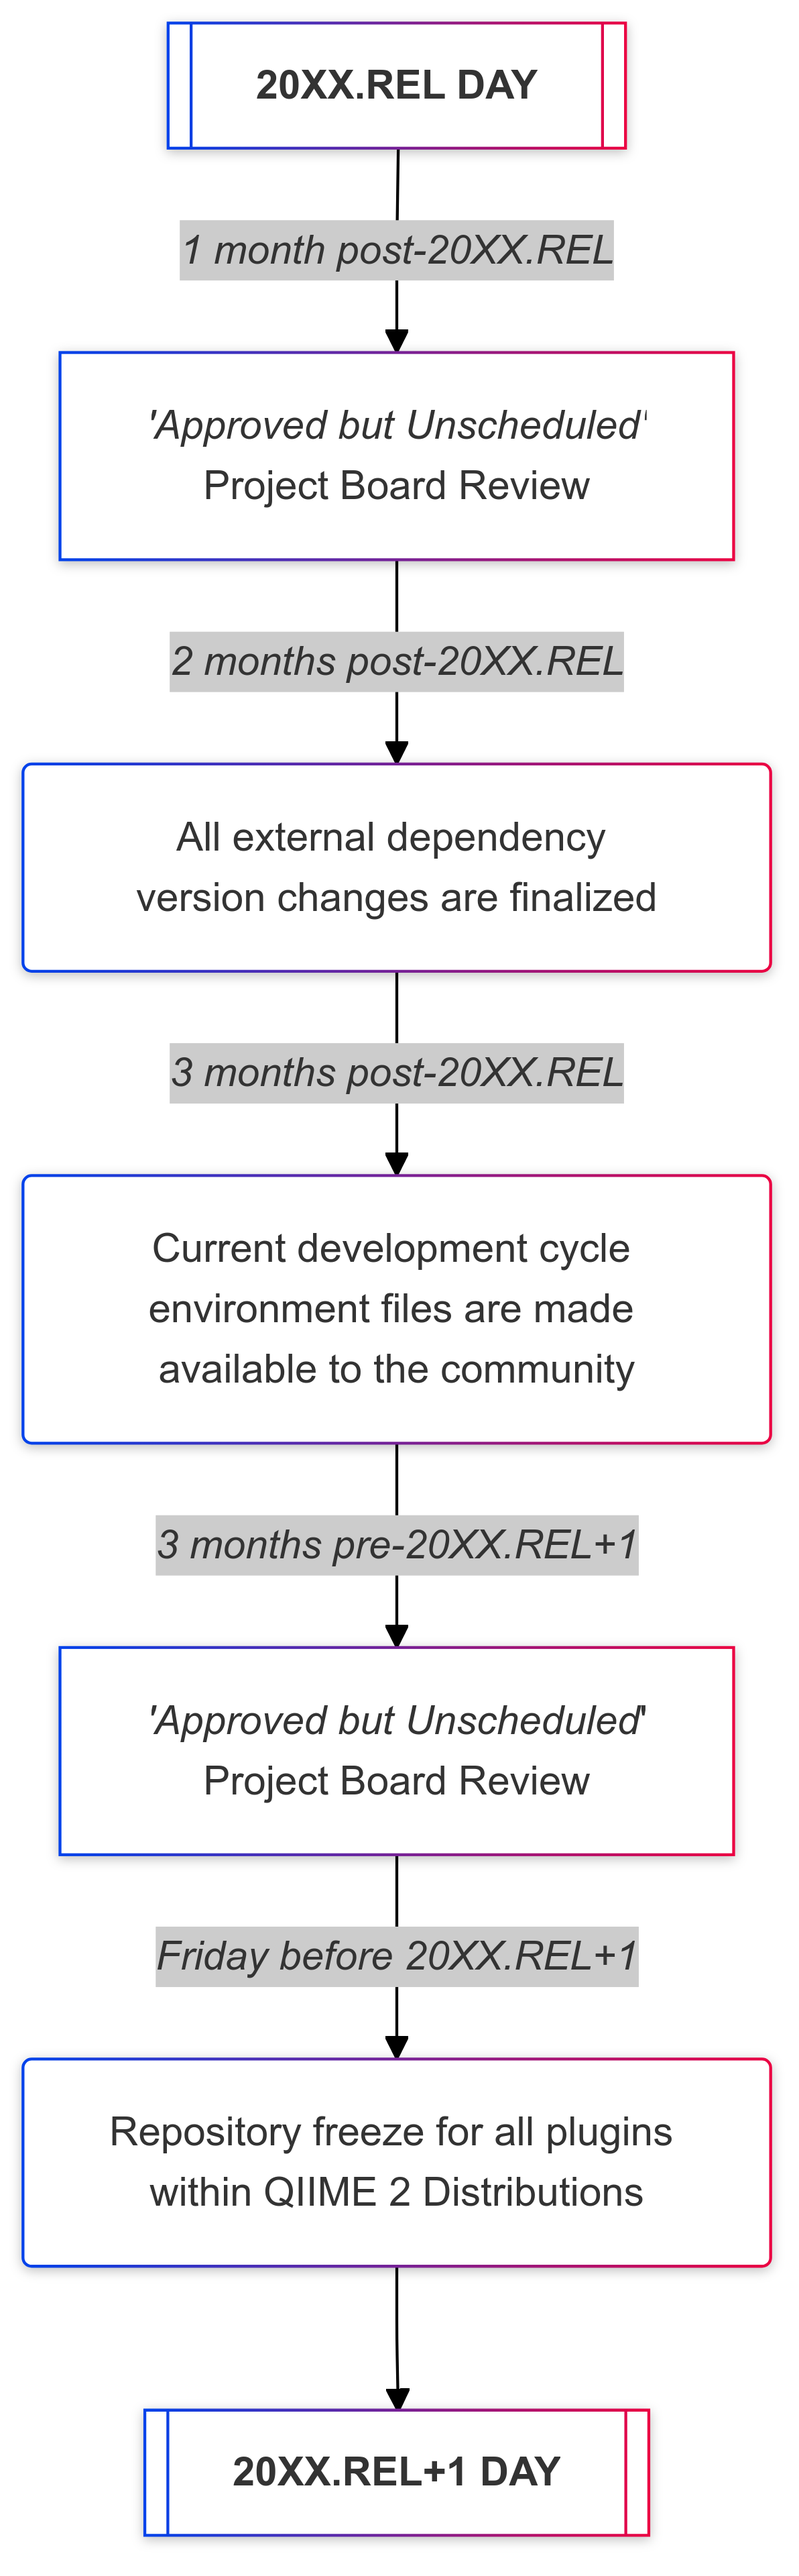
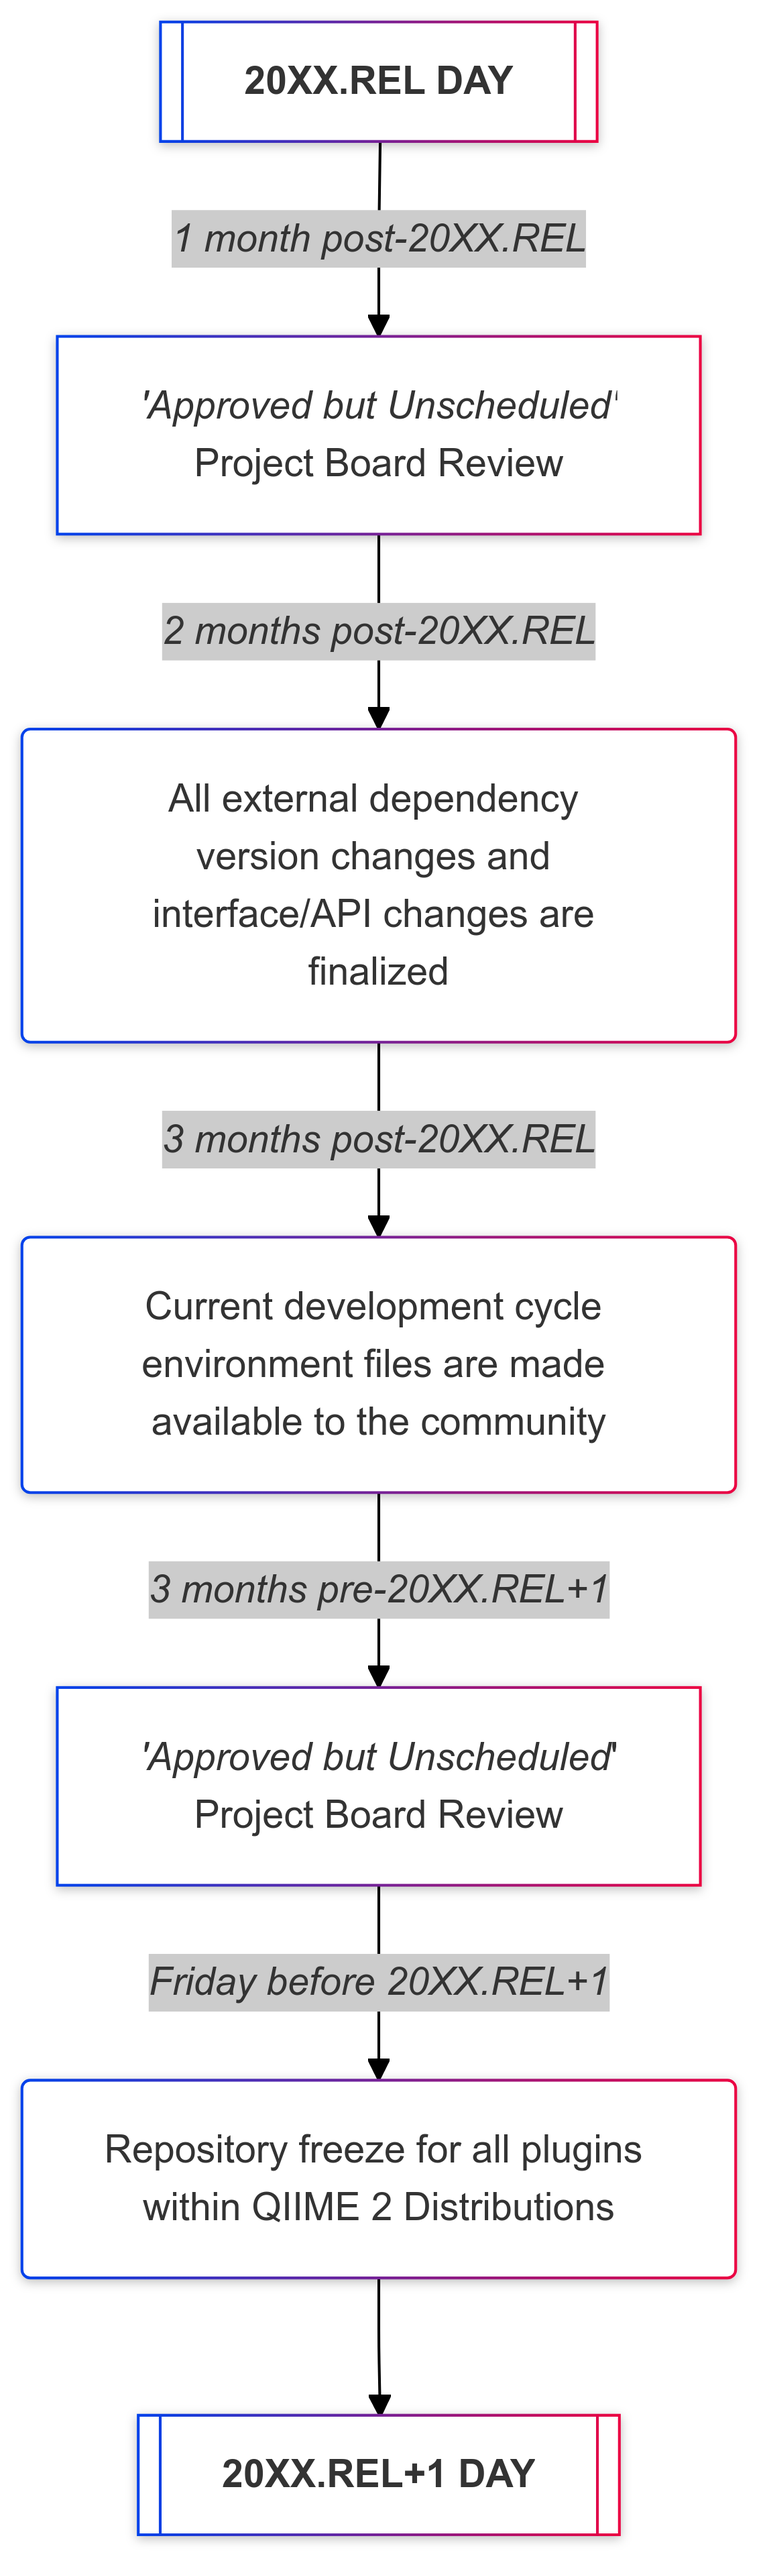
IMP: adds interface/API changes to release cycle timeline (#135)

diff --git a/book/framework/references/dev-cycle-structure.md b/book/framework/references/dev-cycle-structure.md
@@ -7,7 +7,7 @@ If you have any questions on this process, please don't hesitate to reach out on
 ## QIIME 2 Release Cycle Structure
 
 As of 2024.10, QIIME 2 Distributions are released bi-anually, on the first Wednesday of April and October.
-This schedule provides us with ample development time between releases, and provides our developer community with at least a three month notice for any external dependency changes (i.e. bumping Python, removing a deprecated package, etc).
+This schedule provides us with ample development time between releases, and provides our developer community with at least a three month notice for any interface/API changes and any external dependency changes (i.e. bumping Python, removing a deprecated package, etc).
 
 The following diagram outlines relevant timepoints between each release, with terms defined below.
 
